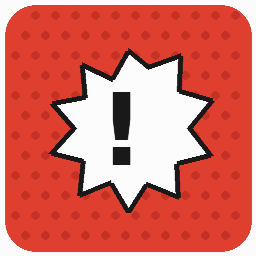
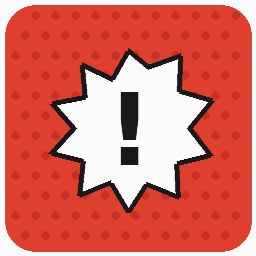
Nudge the comic "!" into the star's visual centre (slightly right)

Changed region(s): [[0.4375, 0.3438, 0.5625, 0.6562]]

diff --git a/img/src/make-comic-icon.php b/img/src/make-comic-icon.php
@@ -73,8 +73,9 @@ imagesetthickness($im, 1);
 $font = '/usr/share/fonts/truetype/dejavu/DejaVuSans-Bold.ttf';
 if (is_file($font)) {
 	$box = imagettfbbox(150, 0, $font, '!');
-	// centre on both axes using the full glyph bbox (accounts for side bearing)
-	$tx = (int) round($cx - ($box[0] + $box[2]) / 2);
+	// Sit the "!" in the star's visual centre, which reads a little right of the
+	// tile centre — so nudge right rather than tile-centring it.
+	$tx = (int) round($cx - ($box[0] + $box[2]) / 2) + 16;
 	$ty = (int) round($cy - ($box[1] + $box[7]) / 2);
 	imagettftext($im, 150, 0, $tx, $ty, $ink, $font, '!');
 }
